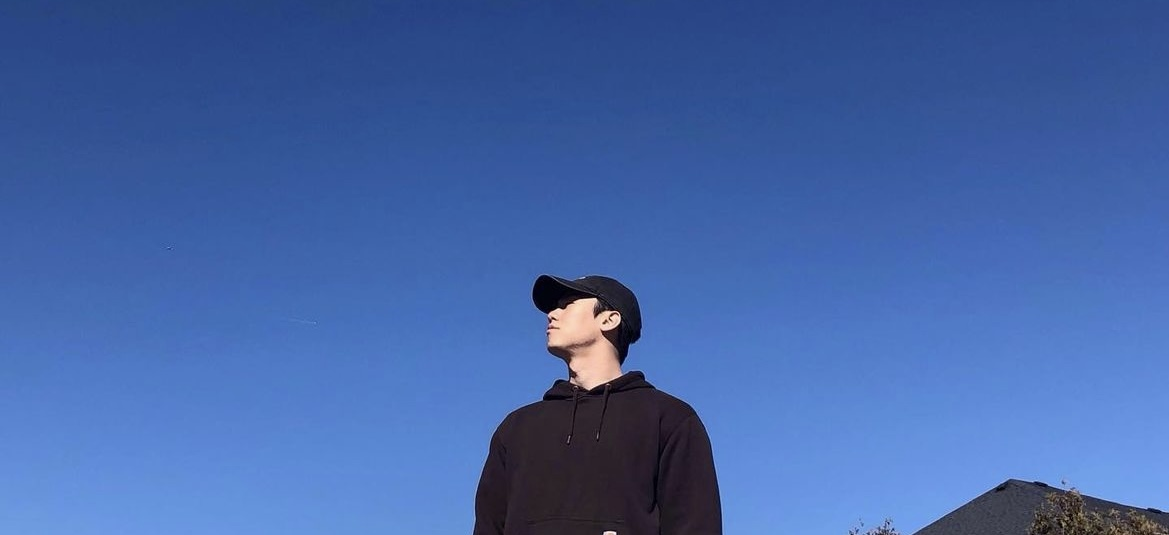
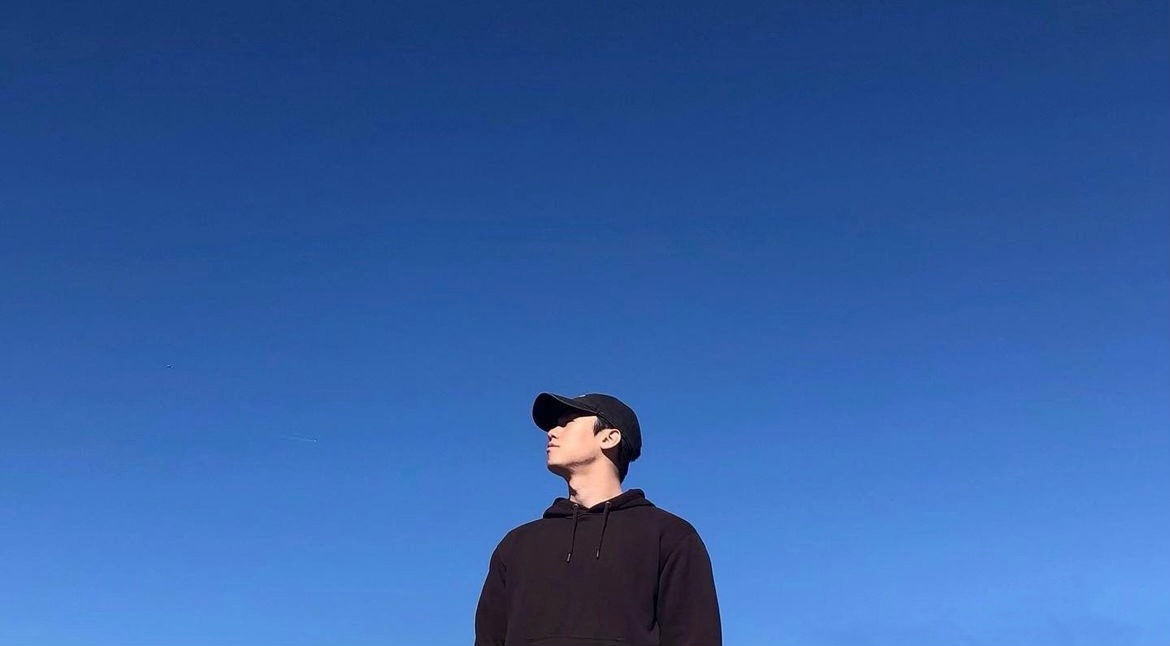
Changed hero responsiveness

diff --git a/src/components/Hero/Hero.module.css b/src/components/Hero/Hero.module.css
@@ -24,7 +24,7 @@
     height: clamp(15rem, 25vw, 25rem);
     width: 100%;
     background-image: url('../../assets/img/hero-img.jpg');
-    background-position: 50% 80%;
+    background-position: 50% 90%;
     background-repeat: no-repeat;
     background-size: cover;
     margin: clamp(1.5rem, 2vw, 2rem) 0;
@@ -64,14 +64,19 @@
 }
 
 .name {
-    font-size: clamp(4rem, 9vw, 9rem);
+    font-size: clamp(4rem, 8vw, 8rem);
     font-weight: var(--fw-medium);
 }
 
 .title {
     font-size: clamp(1.5rem, 3vw, 3rem);
     font-weight: var(--fw-regular);
-    color: rgba(116, 116, 116, 0.844);
+    /* color: rgba(116, 116, 116, 0.844); */
+}
+
+.bold {
+    /* color: rgba(89, 89, 89, 0.844); */
+    font-weight: var(--fw-medium);
 }
 
 .title:not(:last-child) {
@@ -86,19 +91,14 @@
     display: none;
 }
 
-.bold {
-    color: rgba(89, 89, 89, 0.844);
-    font-weight: var(--fw-medium);
-}
-
-@media only screen and (min-width: 36em) {
+/* @media only screen and (min-width: 36em) {
     .hero__content {
         width: 60%;
     }
-}
+} */
 
 
-@media only screen and (min-width: 70em) {
+@media only screen and (min-width: 61.25em) {
     .hero {
         align-items: center;
     }

diff --git a/src/components/Hero/Hero.js b/src/components/Hero/Hero.js
@@ -28,21 +28,6 @@ const fromBottom = {
   },
 };
 
-const fromTop = {
-  visible: {
-    opacity: 1,
-    y: 0,
-    transition: {
-      type: "spring",
-      stiffness: 250,
-    },
-  },
-  hidden: {
-    opacity: 0,
-    y: -5,
-  },
-};
-
 const Hero = () => {
   return (
     <div className={styles["hero-container"]}>
